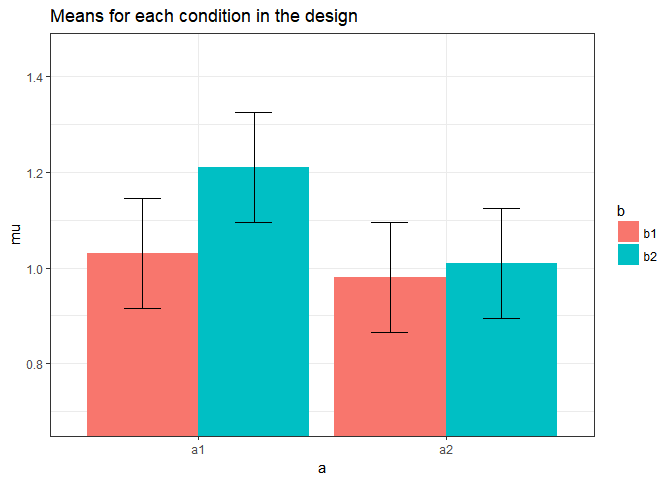
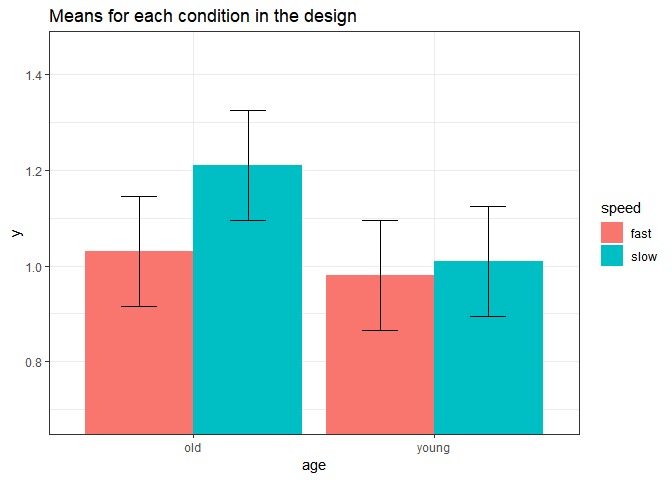
validation for within no longer correct, needs fixing!

diff --git a/README.md b/README.md
@@ -76,6 +76,8 @@ So if you enter the means 1, 2, 3, 4, 5, 6, 7, 8 the first 4 means correspond to
 
 The plot below visualizes means from 1 to 8 being entered in a vector: mu = c(1, 2, 3, 4, 5, 6, 7, 8) so you can see how the basic ordering works.
 
+![](README_files/figure-markdown_github/unnamed-chunk-2-1.png)
+
 ### specifying label names
 
 To make sure the plots and tables with simulation results are easy to interpret, it really helps to name all factors and levels. You can enter the labels in the 'labelnames' variable.
@@ -108,12 +110,36 @@ design_result <- ANOVA_design(string = "2b*2w",
                    r=0.87, 
                    p_adjust = "none",
                    labelnames = c("age", "old", "young", "speed", "fast", "slow"))
+```
 
+![](README_files/figure-markdown_github/unnamed-chunk-3-1.png)
+
+``` r
 set.seed(1) #set seed to get reproducible results
 simulation_result <- ANOVA_power(design_result, alpha = 0.05, nsims = 1000)
 ```
 
-    ## No id variables; using all as measure variables
+    ## Power and Effect sizes for ANOVA tests
+    ##                 power effect size
+    ## anova_age        18.7       0.008
+    ## anova_speed      19.0       0.007
+    ## anova_age:speed  10.9       0.005
+    ## 
+    ## Power and Effect sizes for contrasts
+    ##                                                               power
+    ## paired_comparison_age_old,speed_fast - age_young,speed_fast     5.4
+    ## paired_comparison_age_old,speed_fast - age_old,speed_slow      21.0
+    ## paired_comparison_age_old,speed_fast - age_young,speed_slow     4.5
+    ## paired_comparison_age_young,speed_fast - age_old,speed_slow    32.5
+    ## paired_comparison_age_young,speed_fast - age_young,speed_slow   5.9
+    ## paired_comparison_age_old,speed_slow - age_young,speed_slow    25.5
+    ##                                                               effect size
+    ## paired_comparison_age_old,speed_fast - age_young,speed_fast          0.04
+    ## paired_comparison_age_old,speed_fast - age_old,speed_slow           -0.19
+    ## paired_comparison_age_old,speed_fast - age_young,speed_slow          0.01
+    ## paired_comparison_age_young,speed_fast - age_old,speed_slow         -0.23
+    ## paired_comparison_age_young,speed_fast - age_young,speed_slow       -0.03
+    ## paired_comparison_age_old,speed_slow - age_young,speed_slow          0.20
 
 The result for the power simulation has two sections. The first table provides power (from 0 to 100%) and effect sizes (partial eta-squared) for the ANOVA result. We see the results for the main effects of factor a, b and the interaction between a and b.
 
